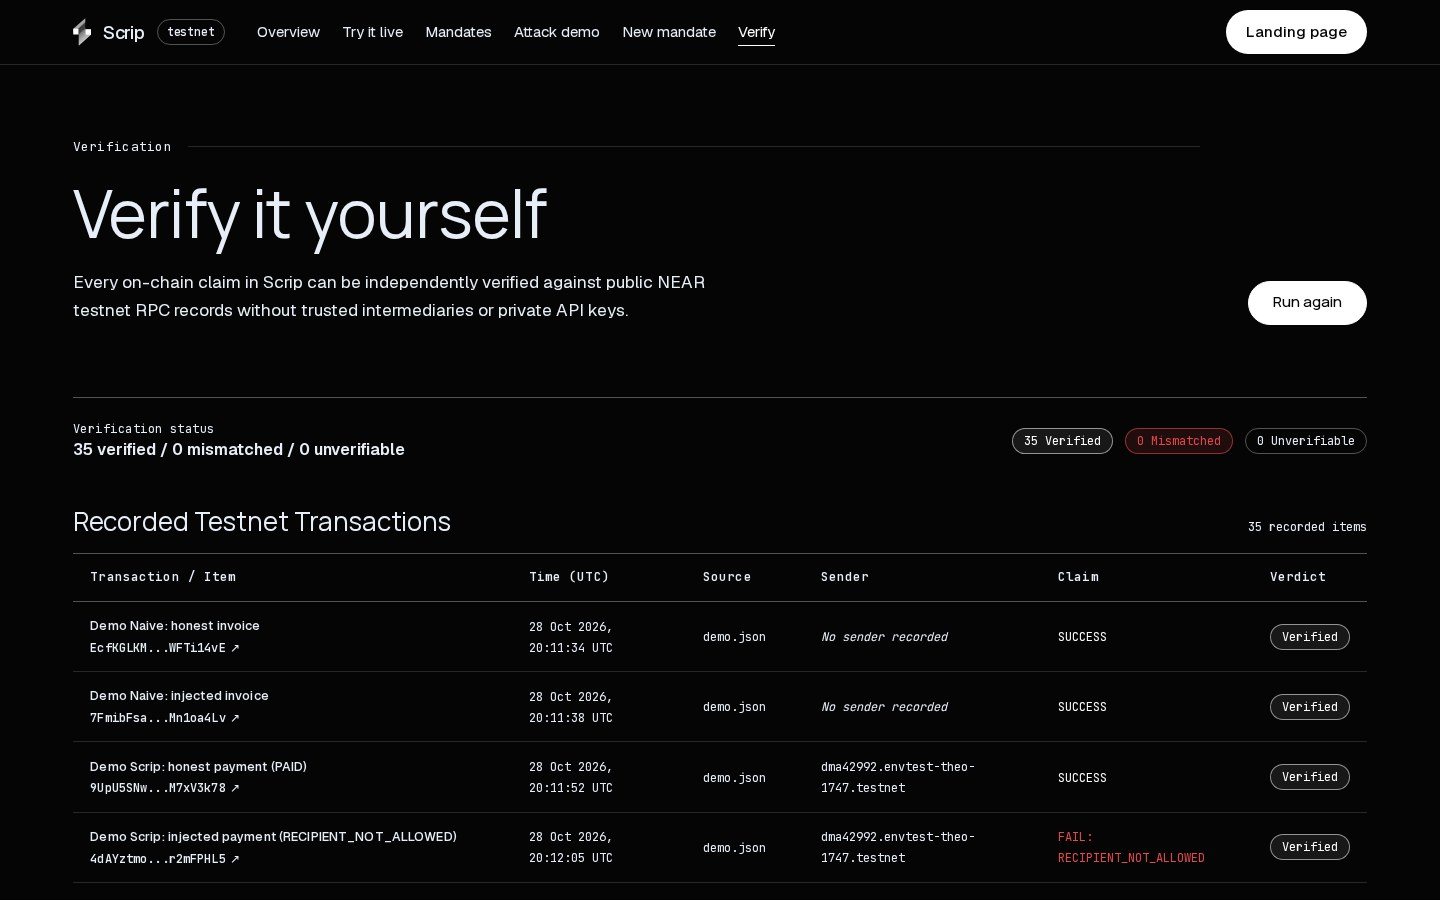
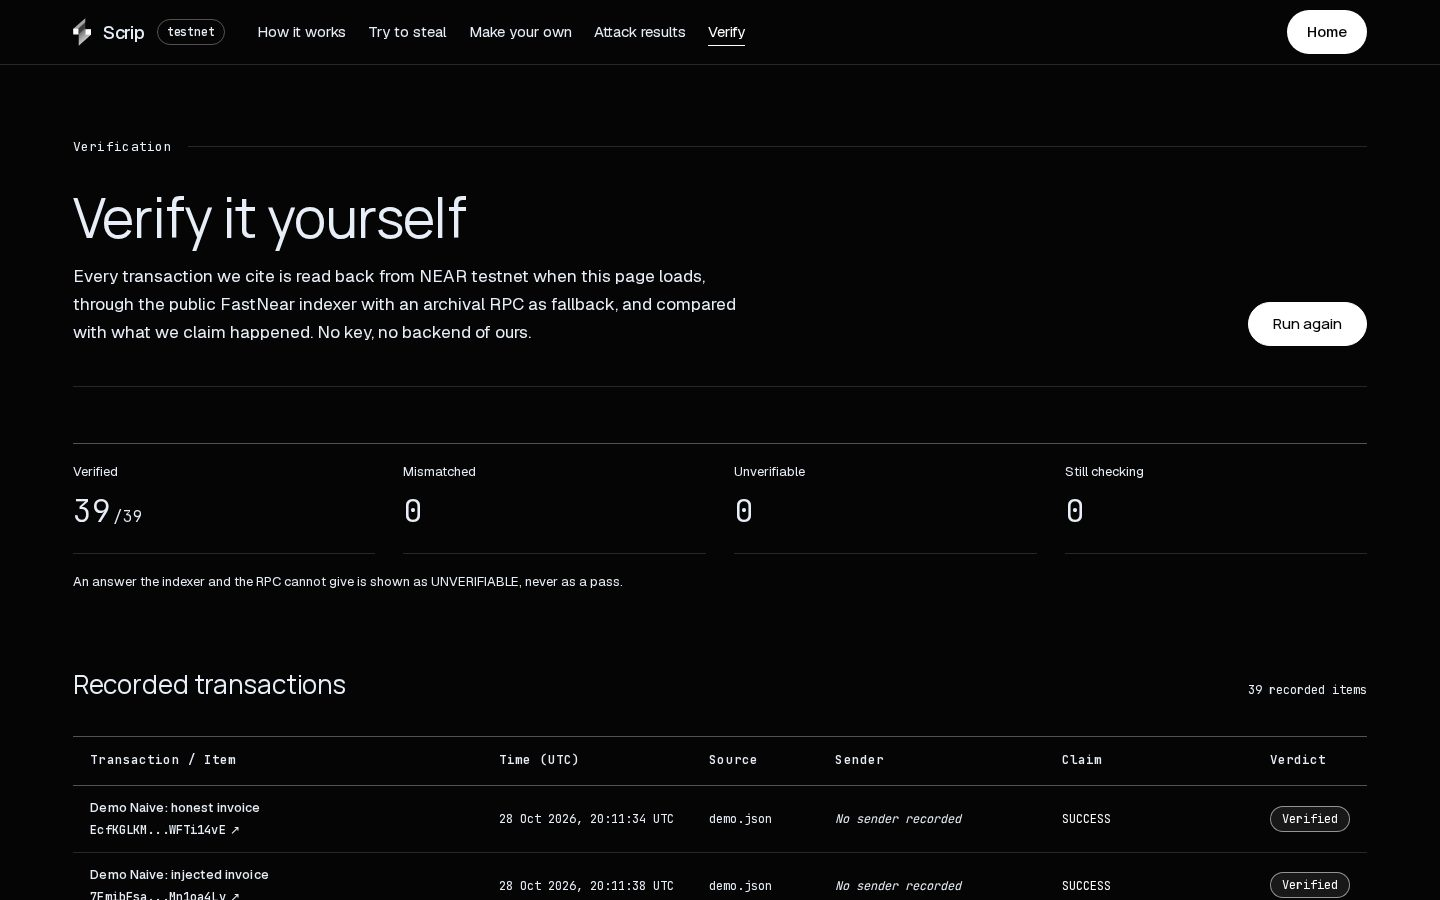
README: verify-from-terminal block, fresh /verify screenshot (39/39); JUDGES: start-here section

diff --git a/README.md b/README.md
@@ -62,6 +62,22 @@ The claims-to-evidence matrix for every number in this README is in **[JUDGES.md
 
 ---
 
+### Verify from a terminal (no wallet, no API key)
+
+Three reads straight from NEAR testnet. Expected output: step 1 prints one `FunctionCall` permission limited to `request_payment` (the agent has no other key), step 2 prints the mandate the contract enforces (`budget`, `per_payment_cap`, `recipients`, `status: Active`), step 3 prints `RECIPIENT_NOT_ALLOWED`, the reason code of a theft attempt that the contract refused. The `spent` and `next_request_id` values in step 2 grow as visitors use `/try`.
+
+```bash
+RPC=https://rpc.testnet.fastnear.com
+# 1. The agent holds one function-call key, only for request_payment on the Scrip contract
+curl -s $RPC -H 'content-type: application/json' -d '{"jsonrpc":"2.0","id":1,"method":"query","params":{"request_type":"view_access_key_list","finality":"final","account_id":"live-agent.envtest-theo-1747.testnet"}}' | grep -o '"permission":{[^}]*}}'
+# 2. The mandate the contract enforces (budget, per-payment cap, allowlist), read from chain state
+curl -s $RPC -H 'content-type: application/json' -d '{"jsonrpc":"2.0","id":1,"method":"query","params":{"request_type":"call_function","finality":"final","account_id":"live-scrip.envtest-theo-1747.testnet","method_name":"get_mandate","args_base64":"eyJpZCI6MX0="}}' | python3 -c 'import sys,json;print(bytes(json.load(sys.stdin)["result"]["result"]).decode())'
+# 3. A recorded theft attempt: the transaction succeeded, and the contract refused the payment
+curl -s https://archival-rpc.testnet.fastnear.com -H 'content-type: application/json' -d '{"jsonrpc":"2.0","id":1,"method":"EXPERIMENTAL_tx_status","params":{"tx_hash":"84P5kdsnRHVhwCwArVoY7YcnWPkCvwhNbghAouQcbtBd","sender_account_id":"relay.envtest-theo-1747.testnet","wait_until":"FINAL"}}' | grep -o 'RECIPIENT_NOT_ALLOWED' | head -1
+```
+
+For every recorded transaction at once: `node scripts/verify-onchain.mjs` (read-only, no keys) or the [/verify](https://scrip-dev.vercel.app/verify) page.
+
 ## What Makes Scrip Special
 
 ### Who This Is For
@@ -353,7 +369,7 @@ stateDiagram-v2
 
 More detail: [docs/ARCHITECTURE.md](docs/ARCHITECTURE.md), [docs/KEY_CHALLENGE.md](docs/KEY_CHALLENGE.md), [docs/COUNTERPARTY.md](docs/COUNTERPARTY.md).
 
-<img width="1440" alt="Verify it yourself: 35 recorded transactions re-checked against the chain" src=".github/assets/verify.jpg" />
+<img width="1440" alt="Verify it yourself: 39 recorded transactions re-checked against the chain" src=".github/assets/verify.jpg" />
 
 ---
 

diff --git a/JUDGES.md b/JUDGES.md
@@ -6,6 +6,19 @@ Demo video (about 100 seconds): https://x.com/0xnoxxs/status/2121705644021653897
 
 All offline verification commands run on a fresh clone with Node.js 22.18+ (Node 26 in CI) and Rust installed, without network connectivity or private keys. Commands that query the public blockchain or download external sandbox binaries are explicitly labeled `(needs network)`.
 
+## Start here (3 minutes)
+
+| # | Do | See |
+|---|---|---|
+| 1 | Open https://scrip-dev.vercel.app/try and press a "steal" button (stranger, too much, skip the guardian) | the attempt is refused with a reason code such as `RECIPIENT_NOT_ALLOWED`; only the allowed payment goes through |
+| 2 | Run the three `curl` commands in the README section "Verify from a terminal" | one function-call key limited to `request_payment`, the live mandate, and a recorded refusal |
+| 3 | `node scripts/verify-onchain.mjs` (Node 20+, no install, no keys) | `51 verified, 0 mismatched, 0 unverifiable` |
+| 4 | Open https://scrip-dev.vercel.app/verify | `39 of 39` recorded claims re-read from the chain |
+| 5 | `cd web && node --test src/lib/ tests/` | `tests 205, pass 205, fail 0` |
+| 6 | `node scripts/llm-summary.mjs` | per-model table of 480 recorded decisions from four small models |
+
+What is deliberately not claimed is listed at the end of this file.
+
 ## Claims to Evidence Matrix
 
 | # | Claim | Command to Verify | Expected Output | Evidence / Source File |
